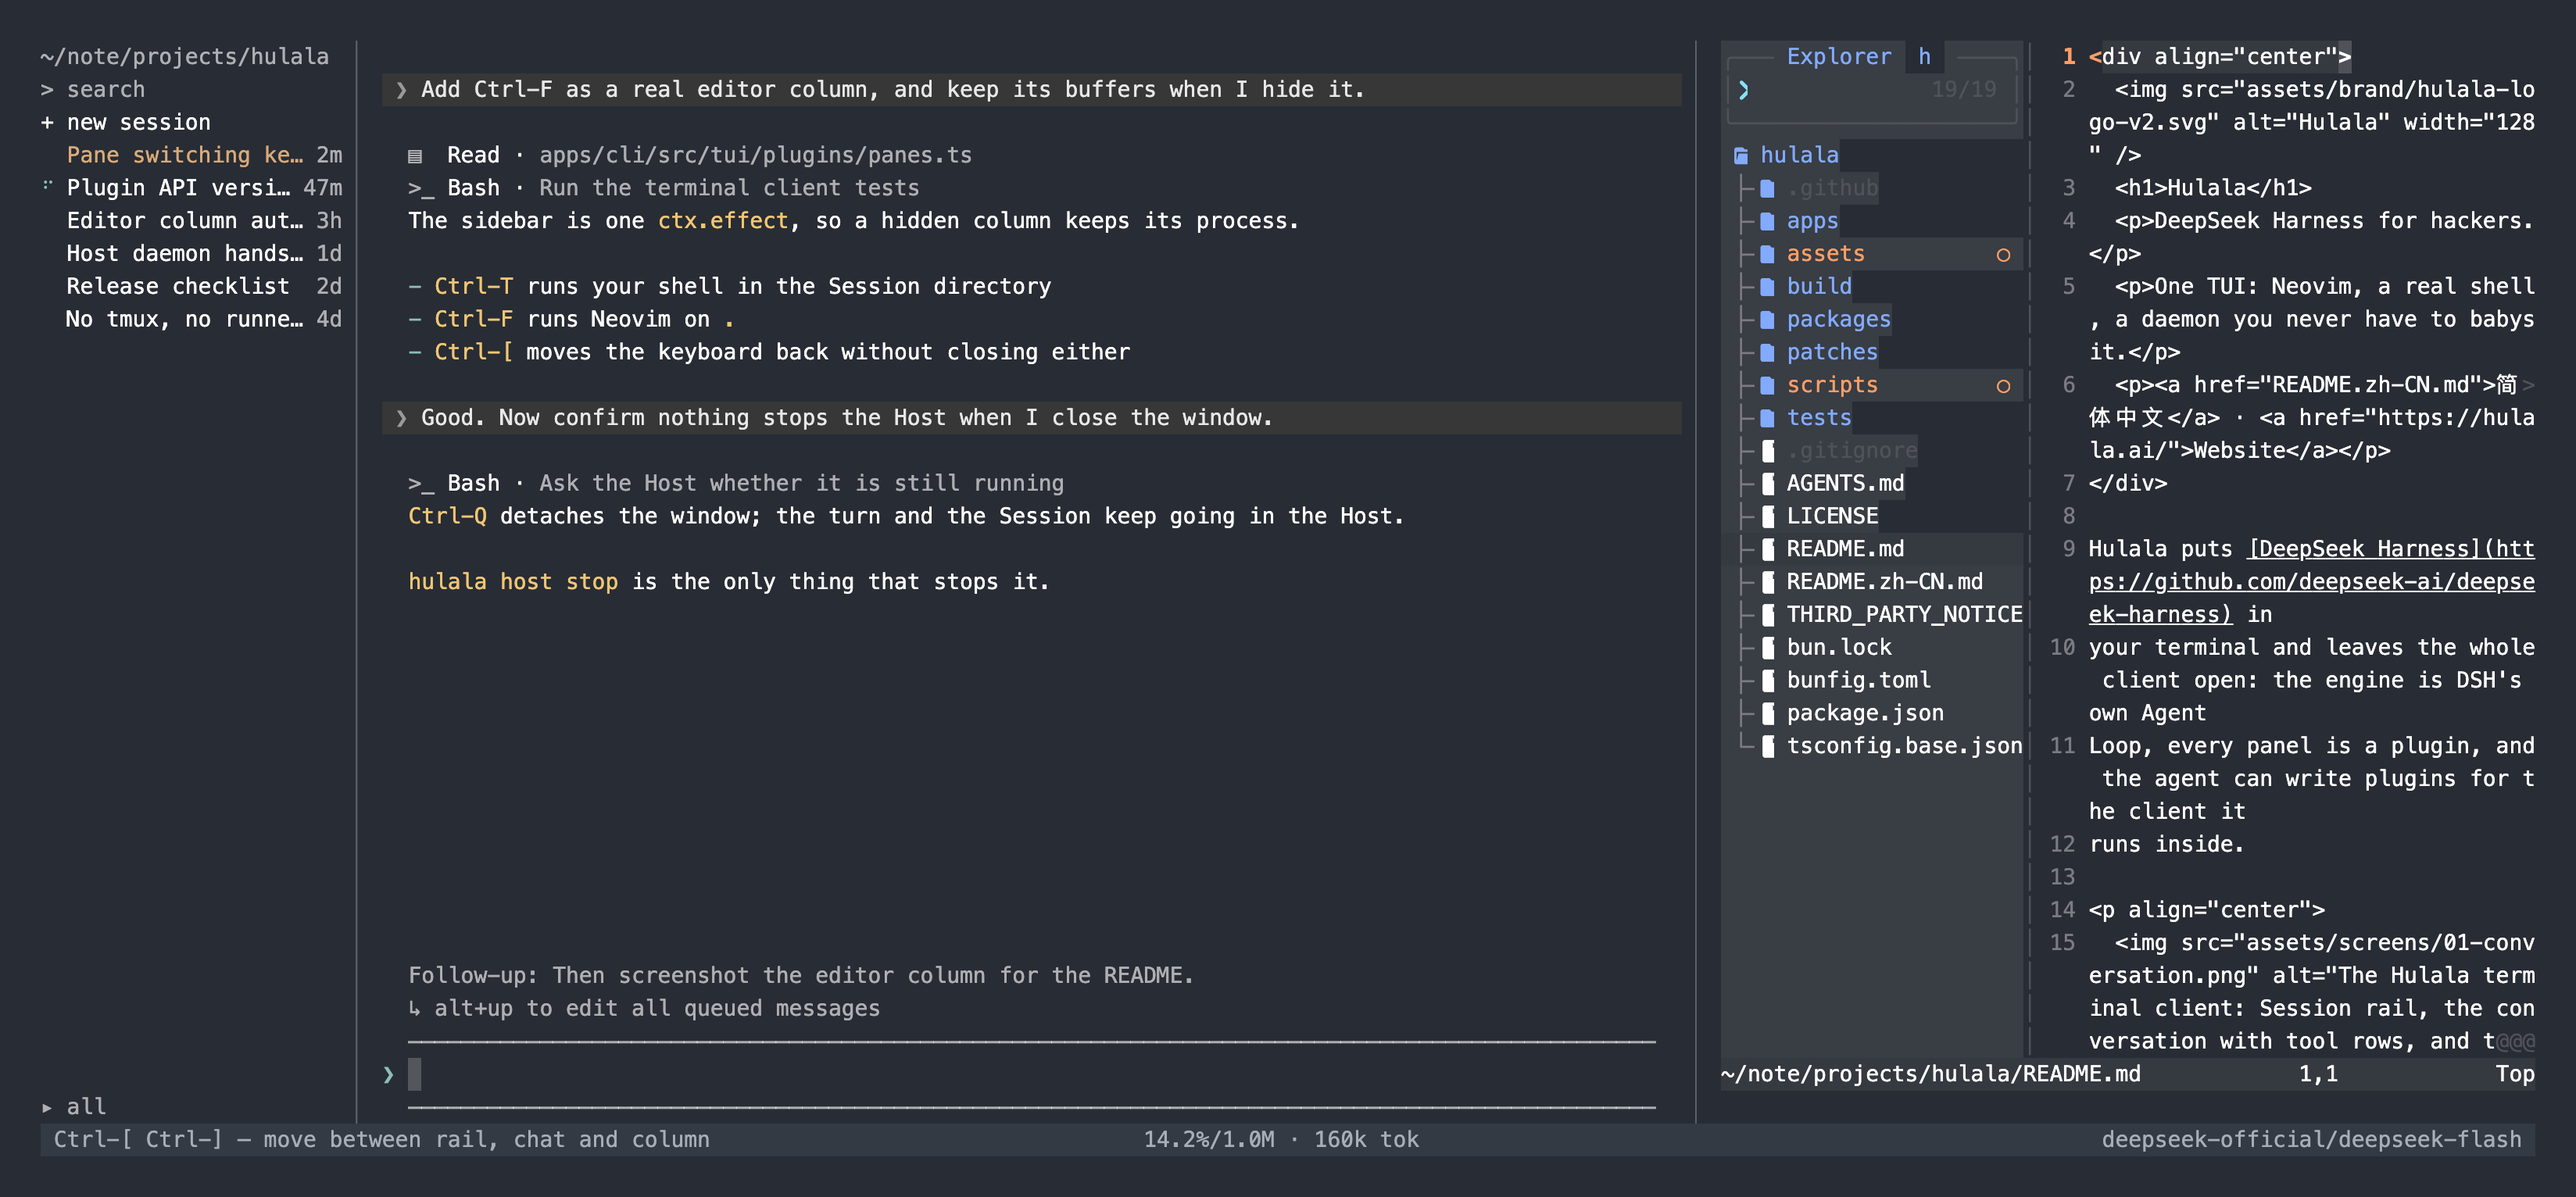
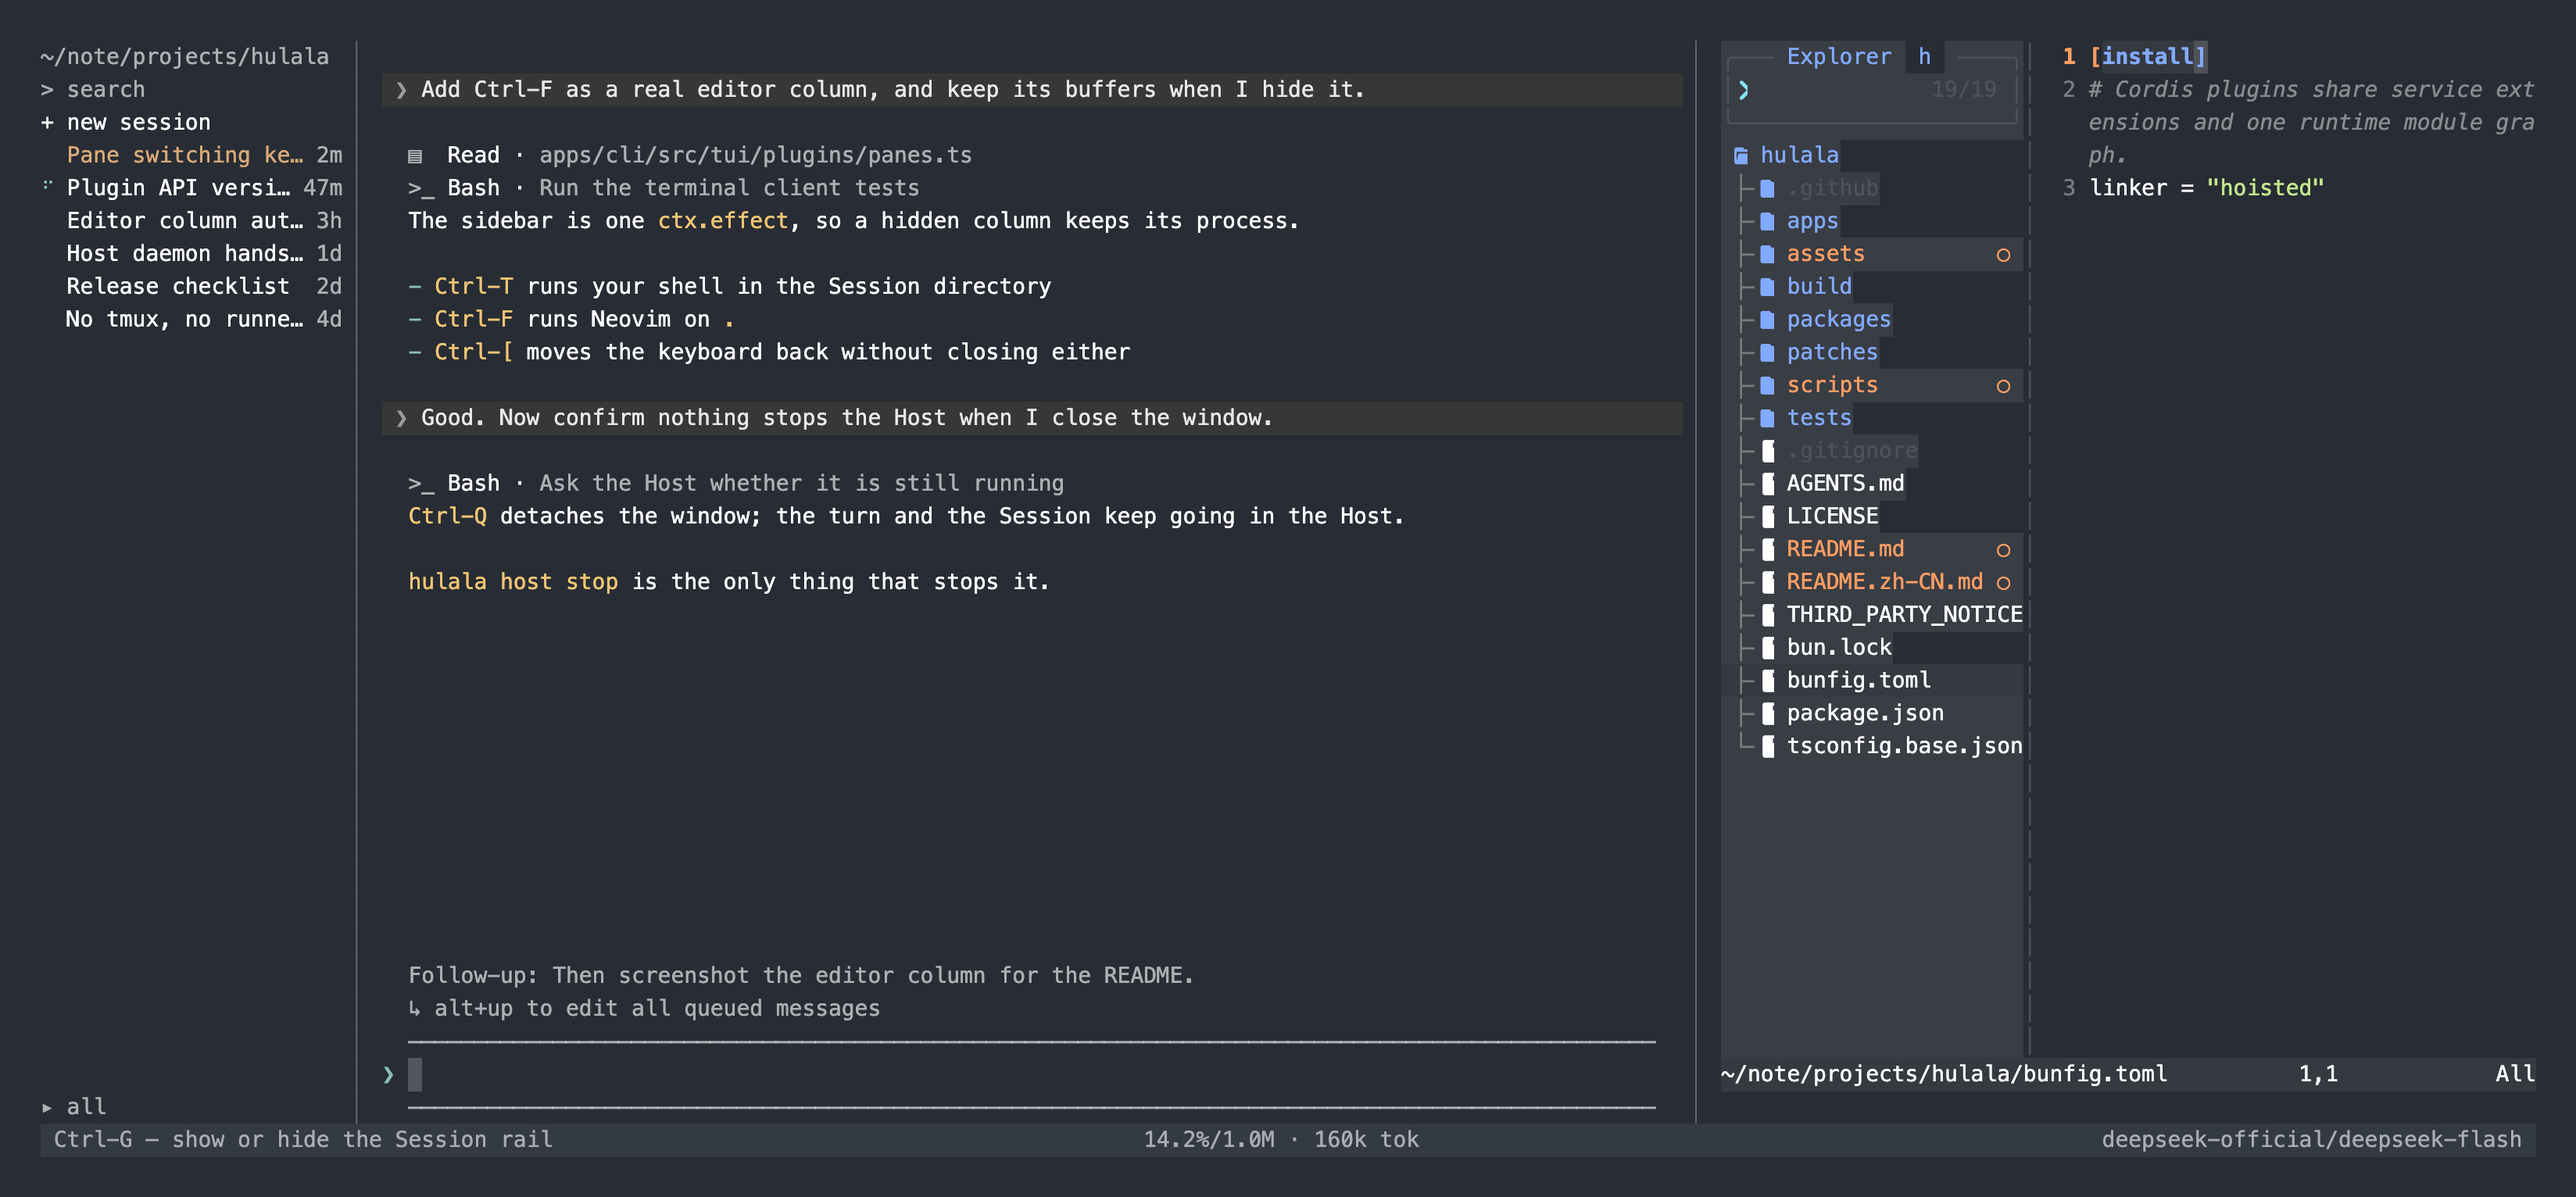
Glue captions to their screenshot and bleed filled cells
A caption sat between two images with equal spacing, so it was ambiguous which
frame it described; it now sits inside the image's own paragraph, right under
it. The rasterizer also overlaps filled cells by half a pixel — fractional cell
sizes left the page showing through as seams inside coloured panels.

diff --git a/scripts/docs/rasterizeFrame.ts b/scripts/docs/rasterizeFrame.ts
@@ -161,7 +161,7 @@ const esc = (text: string): string => text.replace(/&/g, '&amp;').replace(/</g, 
       // part of the cell, and a font's glyph leaves gaps that read as artefacts.
       const block = blockRect(text)
       if (block !== undefined) {
-        spans.push(`<span style="left:${(col * CELL).toFixed(2)}px;top:${(row * LINE).toFixed(2)}px;width:${(width * CELL).toFixed(2)}px;height:${LINE}px;background:${cell.fg};${block}"></span>`)
+        spans.push(`<span style="left:${(col * CELL).toFixed(2)}px;top:${(row * LINE).toFixed(2)}px;width:${(width * CELL + 0.5).toFixed(2)}px;height:${LINE + 0.5}px;background:${cell.fg};${block}"></span>`)
         col += width
         continue
       }
@@ -179,11 +179,14 @@ const esc = (text: string): string => text.replace(/&/g, '&amp;').replace(/</g, 
         continue
       }
       if (text.trim() !== '' || cell.bg !== undefined) {
+        // Filled cells overlap by half a pixel: cell sizes are fractional, and
+        // without the overlap the page shows through as seams between fills.
+        const bleed = cell.bg === undefined ? 0 : 0.5
         const styles = [
           `left:${(col * CELL).toFixed(2)}px`,
           `top:${(row * LINE).toFixed(2)}px`,
-          `width:${(width * CELL).toFixed(2)}px`,
-          'height:' + LINE + 'px',
+          `width:${(width * CELL + bleed).toFixed(2)}px`,
+          'height:' + (LINE + bleed) + 'px',
           'line-height:' + LINE + 'px',
           `color:${cell.fg}`,
           cell.bg ? `background:${cell.bg}` : '',

diff --git a/scripts/docs/captureScreens.ts b/scripts/docs/captureScreens.ts
@@ -239,7 +239,7 @@ const wait = (ms: number): Promise<void> => new Promise((resolve) => setTimeout(
 const TREE = process.argv.includes('--tree')
 
 const SHOTS: Array<{ name: string; keys?: string[] }> = TREE
-  ? [{ name: '04-files', keys: ['\u0006', `${'\u001b[B'.repeat(12)}\r`] }]
+  ? [{ name: '04-files', keys: ['\u0006', `${'\u001b[B'.repeat(16)}\r`] }]
   : [
       { name: '01-conversation' },
       { name: '02-terminal', keys: ['\u0014'] },
@@ -262,7 +262,7 @@ async function main(): Promise<void> {
         input.write(key)
         // The editor needs real time to start Neovim, paint its explorer and
         // open the file the tree lands on.
-        await wait(TREE ? (index === 0 ? 6000 : 2500) : 900)
+        await wait(TREE ? (index === 0 ? 6000 : 1600) : 900)
       }
     }
     const ansiPath = join(dir, `${shot.name}.ansi`)

diff --git a/README.md b/README.md
@@ -13,9 +13,9 @@ runs inside.
 
 <p align="center">
   <img src="assets/screens/01-conversation.png" alt="The Hulala terminal client: Session rail, the conversation with tool rows, and the composer" width="900" />
+  <br />
+  <sub>The frame: the Session rail, the conversation with its tool rows, the pending inbox and the composer.</sub>
 </p>
-
-<p align="center"><sub>The frame: the Session rail, the conversation with its tool rows, the pending inbox and the composer.</sub></p>
 
 ## What you get
 
@@ -62,21 +62,21 @@ default, and `hulala host stop` is the explicit way to end it.
 
 <p align="center">
   <img src="assets/screens/02-terminal.png" alt="The built-in terminal column: the user's shell in the Session directory" width="900" />
+  <br />
+  <sub><code>Ctrl-T</code>: the built-in terminal — your shell in the Session directory, with its own scrollback.</sub>
 </p>
-
-<p align="center"><sub><code>Ctrl-T</code>: the built-in terminal — your shell in the Session directory, with its own scrollback.</sub></p>
 
 <p align="center">
   <img src="assets/screens/03-editor.png" alt="The editor column: Neovim beside the conversation, buffers kept while the column is hidden" width="900" />
+  <br />
+  <sub><code>Ctrl-F</code>: Neovim beside the conversation — the real editor, its buffers kept while the column is hidden.</sub>
 </p>
-
-<p align="center"><sub><code>Ctrl-F</code>: Neovim beside the conversation — the real editor, its buffers kept while the column is hidden.</sub></p>
 
 <p align="center">
-  <img src="assets/screens/04-files.png" alt="The editor column on the Session directory: the real file tree with README.md open beside it" width="900" />
+  <img src="assets/screens/04-files.png" alt="The editor column on the Session directory: the real file tree with bunfig.toml open beside it" width="900" />
+  <br />
+  <sub>The same column on the Session directory: the bundled file tree, with <code>bunfig.toml</code> opened from it.</sub>
 </p>
-
-<p align="center"><sub>The same column on the Session directory: the bundled file tree, with <code>README.md</code> opened from it.</sub></p>
 
 `Ctrl-F` opens the editor on the Session directory, so it is also the file tree:
 the bundled explorer (`apps/cli/vendor/snacks.nvim`) replaces netrw, and picking
